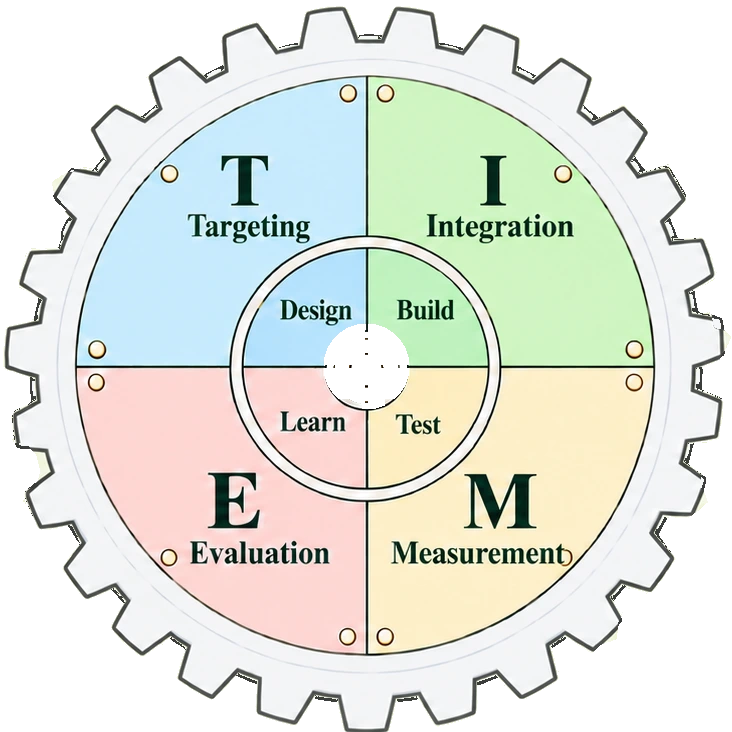
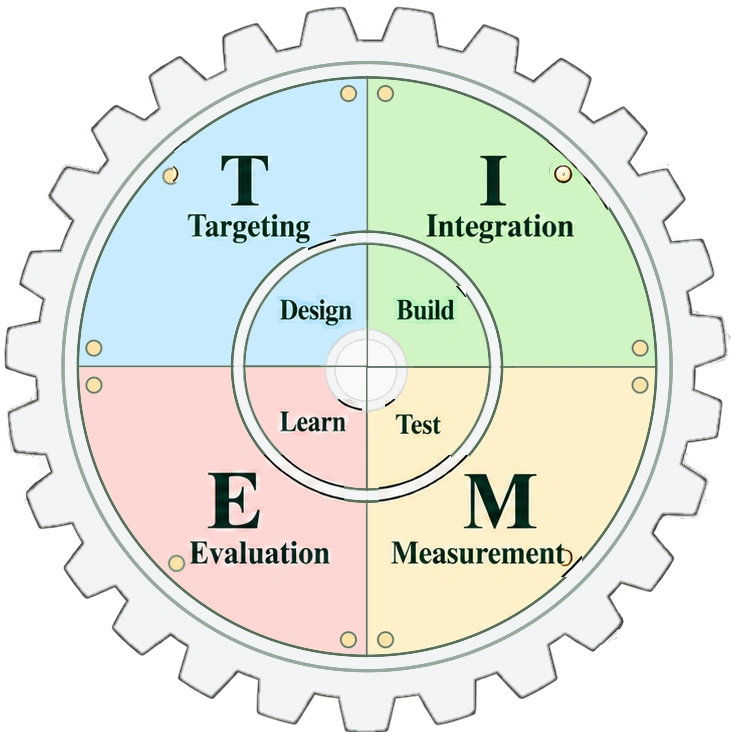
feat(engineering): 替换齿轮SVG为图片并优化交互效果
新增齿轮图片资源，替换原SVG实现，添加悬停和激活态的缩放、旋转及阴影动画，优化齿轮组件样式和交互逻辑

diff --git a/src/components/wiki/features/project/EngineeringExperience.tsx b/src/components/wiki/features/project/EngineeringExperience.tsx
@@ -24,6 +24,14 @@ import type {
   WikiSection,
 } from "../../wikiPageTypes";
 import { EngineeringOutline } from "./EngineeringPanels";
+import gearTSrc from "../../../../assets/wiki/engineering/engineering-gear-t.webp";
+import gearTActiveSrc from "../../../../assets/wiki/engineering/engineering-gear-t-active.webp";
+import gearISrc from "../../../../assets/wiki/engineering/engineering-gear-i.webp";
+import gearIActiveSrc from "../../../../assets/wiki/engineering/engineering-gear-i-active.webp";
+import gearMSrc from "../../../../assets/wiki/engineering/engineering-gear-m.webp";
+import gearMActiveSrc from "../../../../assets/wiki/engineering/engineering-gear-m-active.webp";
+import gearESrc from "../../../../assets/wiki/engineering/engineering-gear-e.webp";
+import gearEActiveSrc from "../../../../assets/wiki/engineering/engineering-gear-e-active.webp";
 
 gsap.registerPlugin(ScrollTrigger, useGSAP);
 
@@ -645,27 +653,32 @@ function CycleScenes({
   );
 }
 
-function SmallGear({ phase }: { phase: number }) {
-  const points: string[] = [];
-  for (let tooth = 0; tooth < 12; tooth++) {
-    for (const [offset, radius] of [
-      [-0.3, 18.5],
-      [-0.14, 24],
-      [0.14, 24],
-      [0.3, 18.5],
-    ]) {
-      const angle = (((tooth + offset) * 30 + phase) * Math.PI) / 180;
-      points.push(
-        `${(28 + radius * Math.cos(angle)).toFixed(2)},${(28 + radius * Math.sin(angle)).toFixed(2)}`,
-      );
-    }
-  }
+const GEAR_ASSETS: Record<string, { normal: string; active: string }> = {
+  t: { normal: gearTSrc, active: gearTActiveSrc },
+  i: { normal: gearISrc, active: gearIActiveSrc },
+  m: { normal: gearMSrc, active: gearMActiveSrc },
+  e: { normal: gearESrc, active: gearEActiveSrc },
+};
+
+function SmallGear({
+  letter,
+  isActive,
+  phase,
+}: {
+  letter: string;
+  isActive: boolean;
+  phase: number;
+}) {
+  const assets = GEAR_ASSETS[letter.toLowerCase()] ?? GEAR_ASSETS.t;
+  const src = isActive ? assets.active : assets.normal;
   return (
-    <svg viewBox="0 0 56 56" aria-hidden="true">
-      <polygon points={points.join(" ")} />
-      <circle cx="28" cy="28" r="12" />
-      <circle className="eng-small-gear__hub" cx="28" cy="28" r="4" />
-    </svg>
+    <img
+      src={src}
+      alt=""
+      aria-hidden="true"
+      className="eng-small-gear__img"
+      style={{ "--gear-phase": `${phase}deg` } as CSSProperties}
+    />
   );
 }
 
@@ -804,7 +817,11 @@ function GearNavigation({
                     });
                   }}
                 >
-                  <SmallGear phase={index % 2 ? 15 : 0} />
+                  <SmallGear
+                    letter={cycle.letter}
+                    isActive={selection.id === iteration.id}
+                    phase={index % 2 ? 7.5 : 0}
+                  />
                   <span>{iteration.index}</span>
                 </button>
               ))}

diff --git a/src/styles/features/engineering-experience.css b/src/styles/features/engineering-experience.css
@@ -514,36 +514,29 @@
     color 180ms ease,
     transform 160ms ease;
 }
-.eng-small-gear svg {
+.eng-small-gear__img {
   display: block;
   flex: 0 0 auto;
-  width: 60px;
-  height: 60px;
-  overflow: visible;
+  width: 58px;
+  height: 58px;
+  object-fit: contain;
   pointer-events: none;
+  transform: rotate(var(--gear-phase, 0deg));
+  filter: drop-shadow(0 1px 2px rgba(36, 61, 44, 0.08));
+  transition:
+    transform 220ms cubic-bezier(0.34, 1.56, 0.64, 1),
+    filter 200ms ease;
 }
-.eng-small-gear polygon {
-  fill: #fcfdf9;
-  stroke: currentColor;
-  stroke-width: 1.4;
-  stroke-linejoin: round;
-  transition: fill 180ms ease;
+.eng-small-gear:hover .eng-small-gear__img {
+  transform: scale(1.08) rotate(var(--gear-phase, 0deg));
+  filter: drop-shadow(0 3px 8px rgba(36, 61, 44, 0.16));
 }
-.eng-small-gear circle {
-  fill: #fcfdf9;
-  stroke: currentColor;
-  stroke-width: 1.2;
-  transition: fill 180ms ease;
+.eng-small-gear.is-active .eng-small-gear__img {
+  transform: scale(1.06) rotate(var(--gear-phase, 0deg));
+  filter: drop-shadow(0 2px 8px color-mix(in srgb, var(--gear-color) 45%, transparent));
 }
-.eng-small-gear .eng-small-gear__hub {
-  fill: currentColor;
-  stroke: none;
-}
-.eng-small-gear.is-active polygon {
-  fill: color-mix(in srgb, var(--gear-color) 25%, #fff);
-}
-.eng-small-gear.is-active circle {
-  fill: color-mix(in srgb, var(--gear-color) 12%, #fff);
+.eng-small-gear.is-active span {
+  font-weight: 750;
 }
 .eng-small-gear.is-active::before {
   content: "";
@@ -554,9 +547,6 @@
   height: 6px;
   background: currentColor;
   border-radius: 50%;
-}
-.eng-small-gear:hover polygon {
-  fill: color-mix(in srgb, var(--gear-color) 18%, #fff);
 }
 .eng-small-gear:focus-visible {
   outline: 2px solid var(--gear-color);
